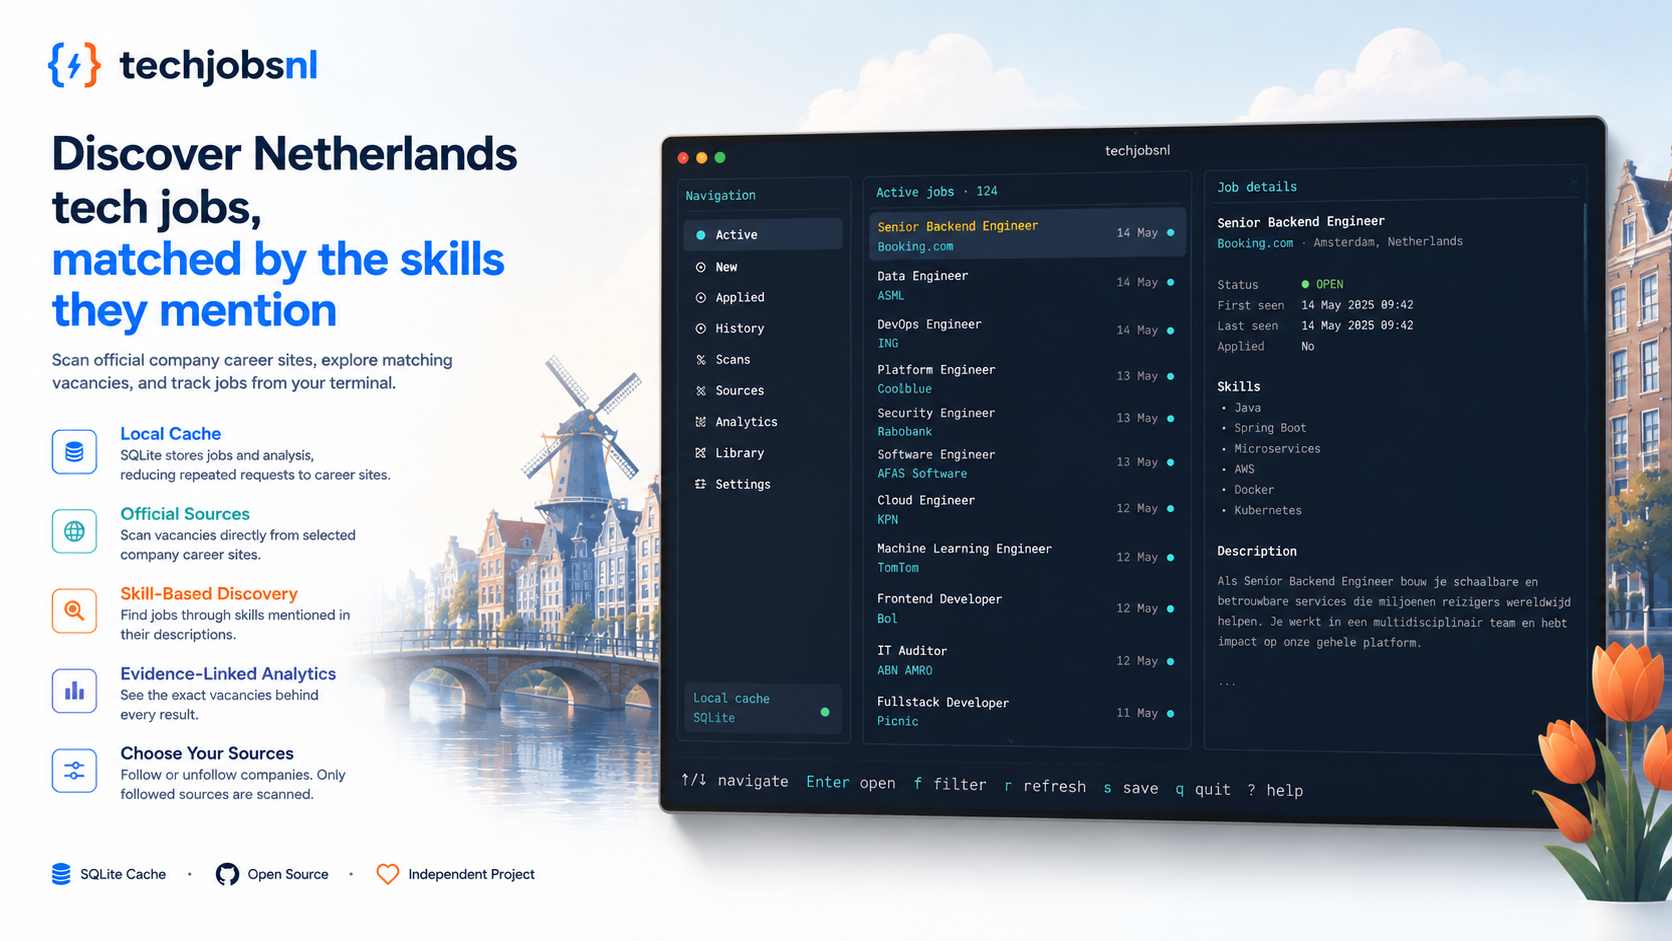
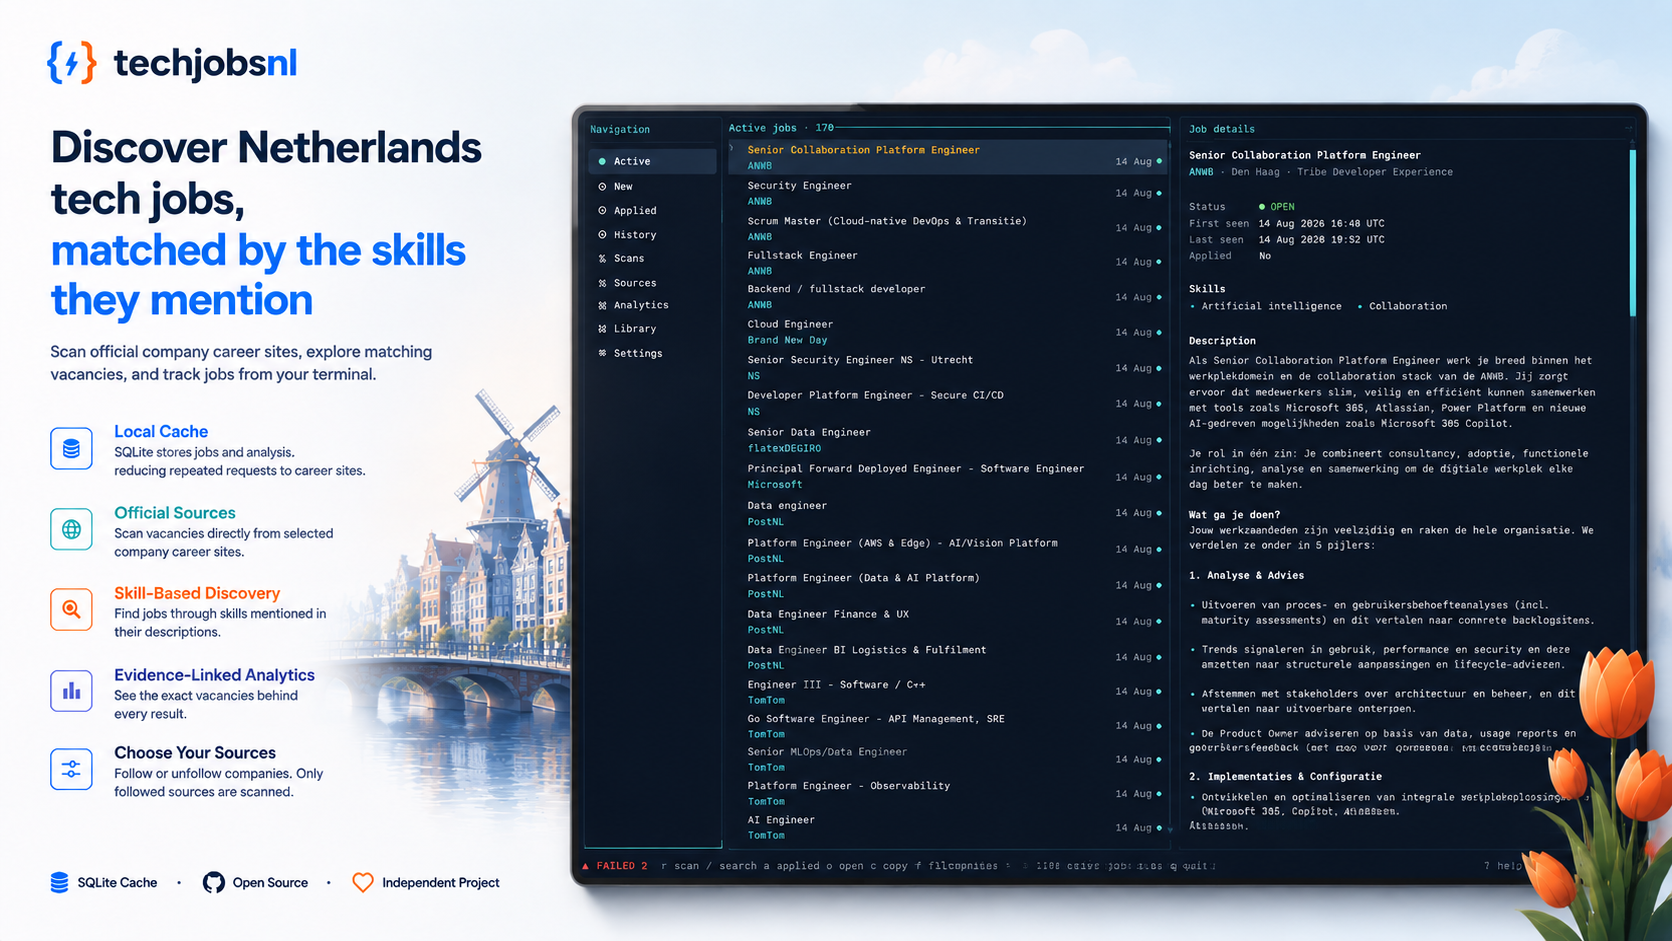
style: adopt navy terminal theme

diff --git a/src/ui/render.rs b/src/ui/render.rs
@@ -1732,7 +1732,11 @@ fn render_navigation(frame: &mut Frame, app: &App, area: Rect) {
             Borders::ALL,
         ))
         .style(Style::new().fg(theme.primary_text).bg(theme.background))
-        .highlight_style(Style::new().bg(theme.selected_row))
+        .highlight_style(
+            Style::new()
+                .bg(theme.selected_row)
+                .add_modifier(Modifier::BOLD),
+        )
         .highlight_symbol("› ");
     let mut state = ListState::default();
     state.select(Some(app.navigation_index()));
@@ -1916,16 +1920,28 @@ fn render_details(frame: &mut Frame, app: &App, area: Rect, borders: Borders) {
         || Text::from("No jobs in this view."),
         |job| {
             let observed = &job.classified.observed;
-            let mut context = vec![app.company_name(&job.key.company_id).to_owned()];
-            if !observed.locations.is_empty() {
-                context.push(observed.locations.join(", "));
-            }
-            if let Some(department) = &observed.department {
-                context.push(department.clone());
+            let mut context = vec![Span::styled(
+                app.company_name(&job.key.company_id).to_owned(),
+                Style::new().fg(theme.new).add_modifier(Modifier::BOLD),
+            )];
+            for value in [
+                (!observed.locations.is_empty()).then(|| observed.locations.join(", ")),
+                observed.department.clone(),
+            ]
+            .into_iter()
+            .flatten()
+            {
+                context.push(Span::styled(" · ", Style::new().fg(theme.muted_text)));
+                context.push(Span::styled(value, Style::new().fg(theme.muted_text)));
             }
             let mut lines = vec![
-                Line::styled(observed.title.as_str(), Style::new().fg(theme.primary_text)),
-                Line::styled(context.join(" · "), Style::new().fg(theme.muted_text)),
+                Line::styled(
+                    observed.title.as_str(),
+                    Style::new()
+                        .fg(theme.primary_text)
+                        .add_modifier(Modifier::BOLD),
+                ),
+                Line::from(context),
                 Line::from(""),
             ];
             let mut status = vec![

diff --git a/src/ui/theme.rs b/src/ui/theme.rs
@@ -21,18 +21,18 @@ pub struct Theme {
 impl Theme {
     pub const fn clean_dark() -> Self {
         Self {
-            background: Color::Black,
-            focused_border: Color::Cyan,
-            unfocused_border: Color::DarkGray,
-            hovered_row: Color::Rgb(22, 34, 43),
-            selected_row: Color::DarkGray,
-            primary_text: Color::White,
-            muted_text: Color::Gray,
-            open: Color::Green,
-            new: Color::LightCyan,
-            applied: Color::LightMagenta,
-            warning: Color::Yellow,
-            error: Color::LightRed,
+            background: Color::Rgb(7, 17, 31),
+            focused_border: Color::Rgb(66, 200, 210),
+            unfocused_border: Color::Rgb(35, 62, 82),
+            hovered_row: Color::Rgb(15, 35, 55),
+            selected_row: Color::Rgb(28, 49, 70),
+            primary_text: Color::Rgb(224, 232, 240),
+            muted_text: Color::Rgb(126, 148, 166),
+            open: Color::Rgb(86, 211, 130),
+            new: Color::Rgb(66, 200, 210),
+            applied: Color::Rgb(188, 132, 246),
+            warning: Color::Rgb(245, 183, 65),
+            error: Color::Rgb(255, 105, 97),
         }
     }
 
